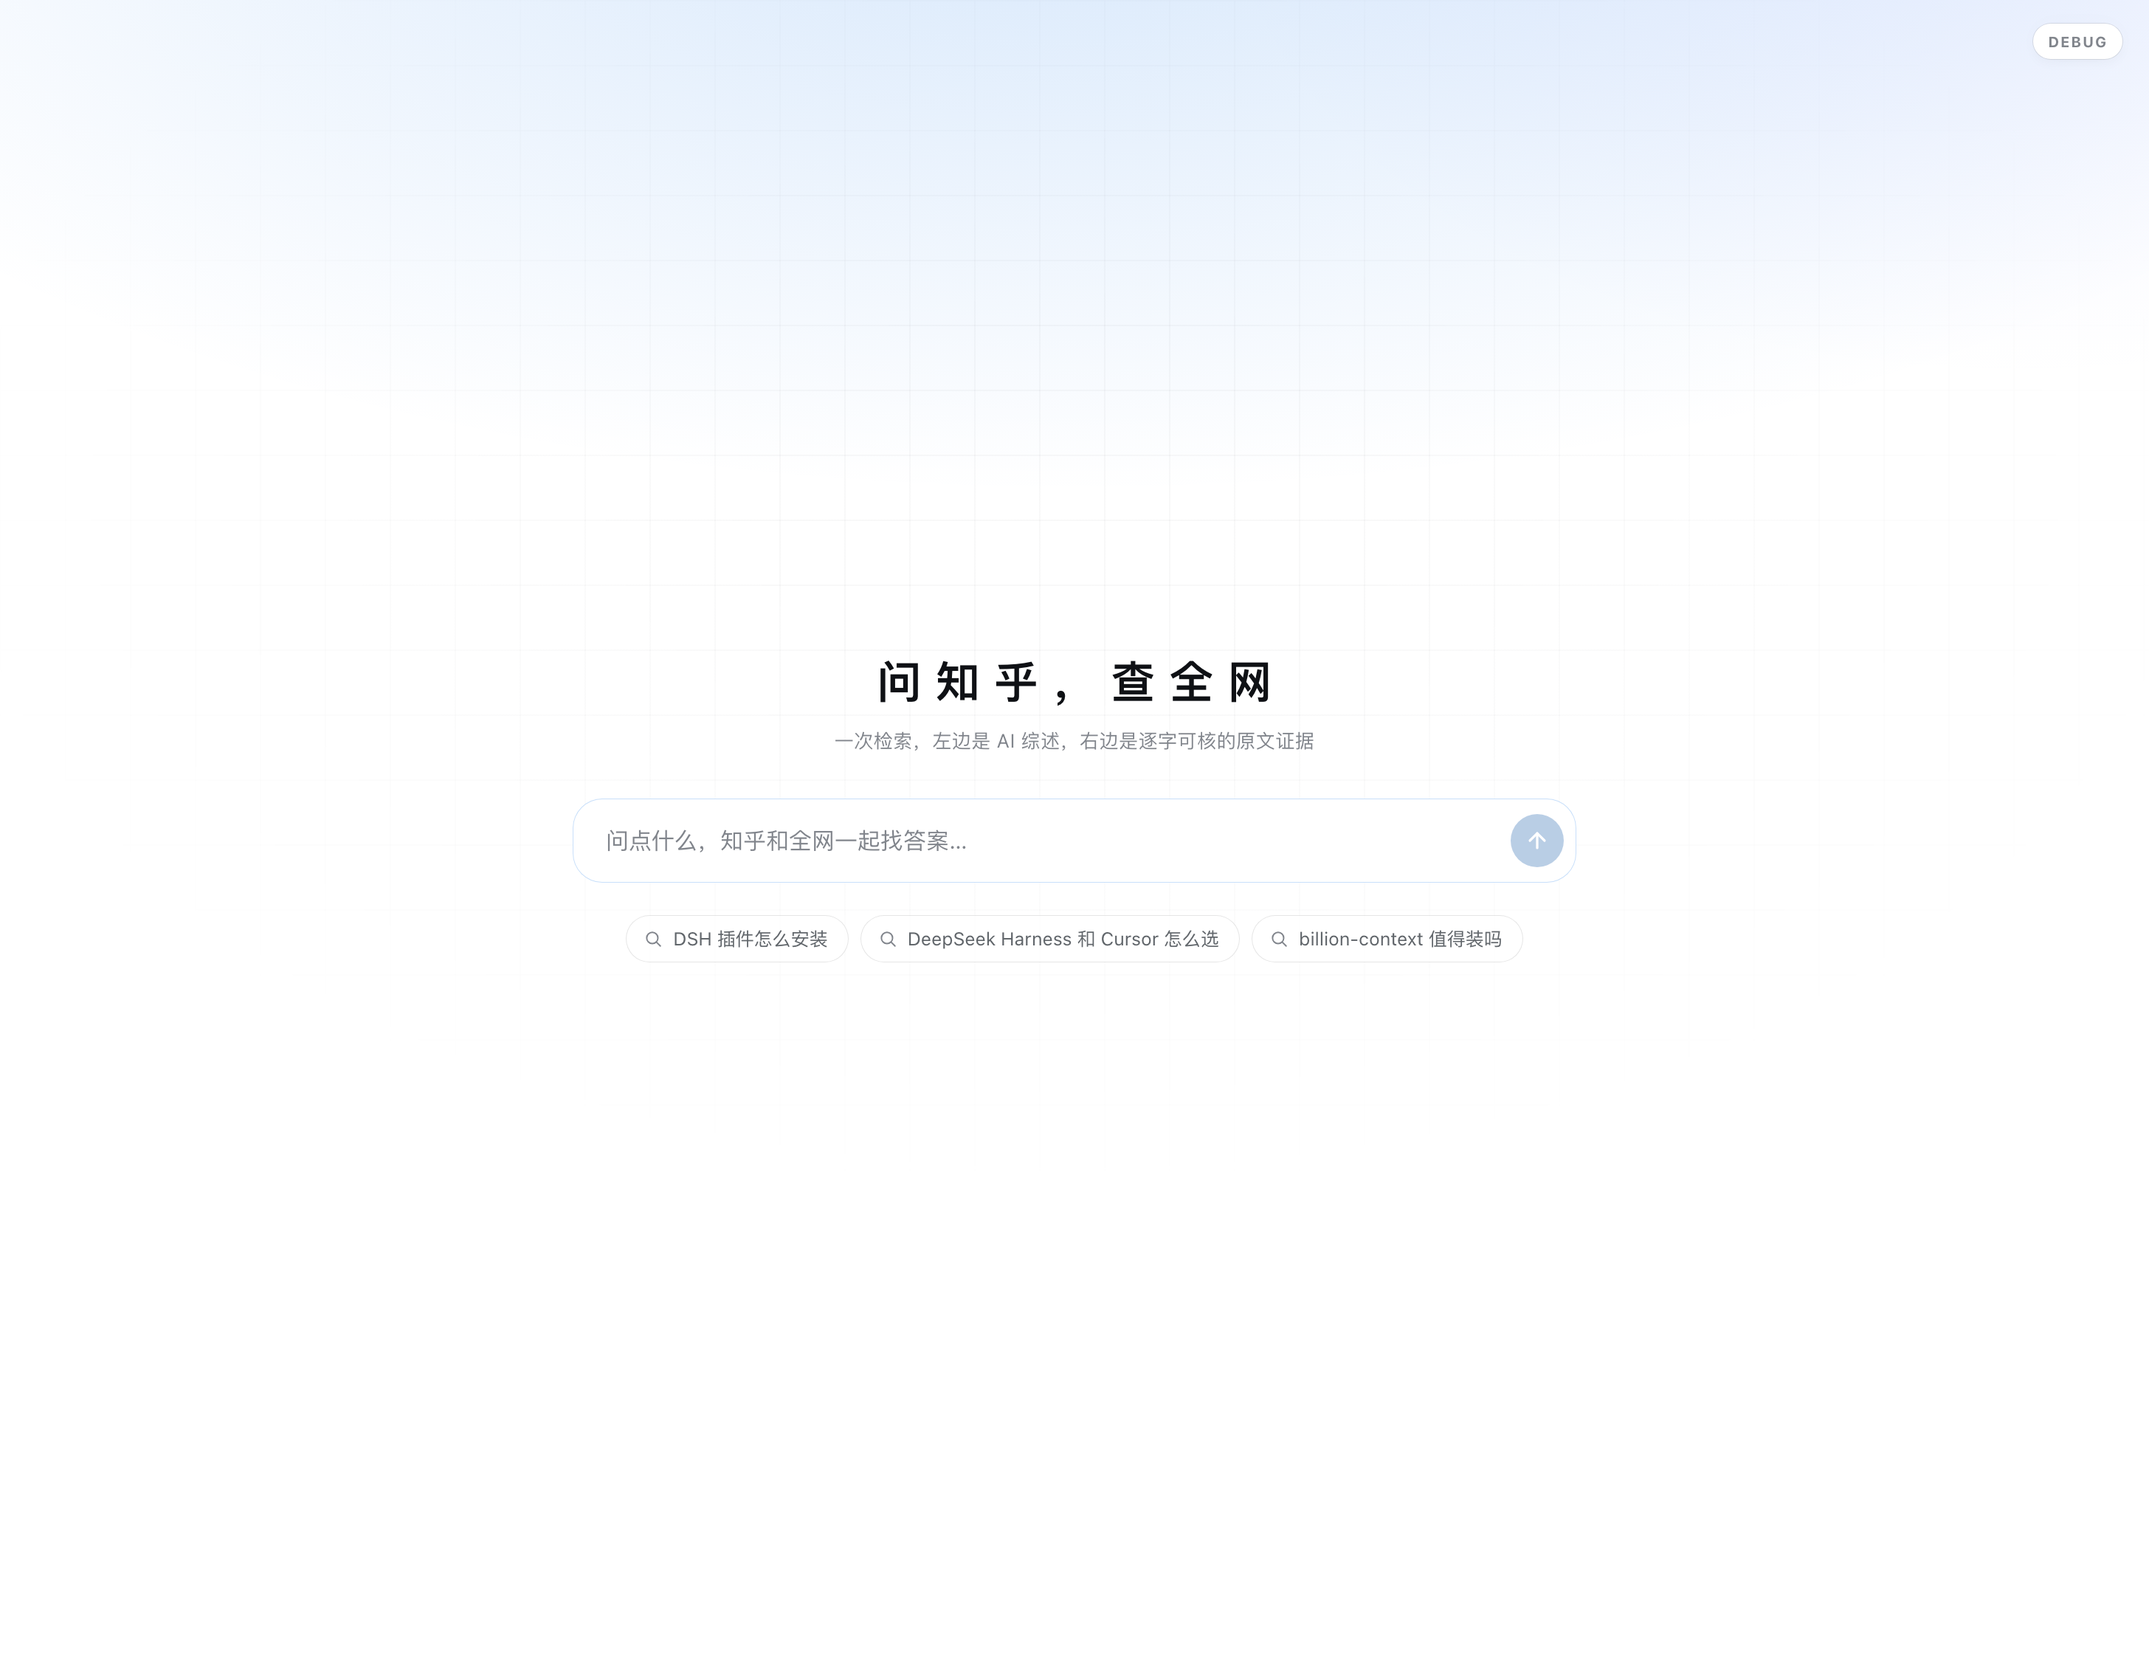
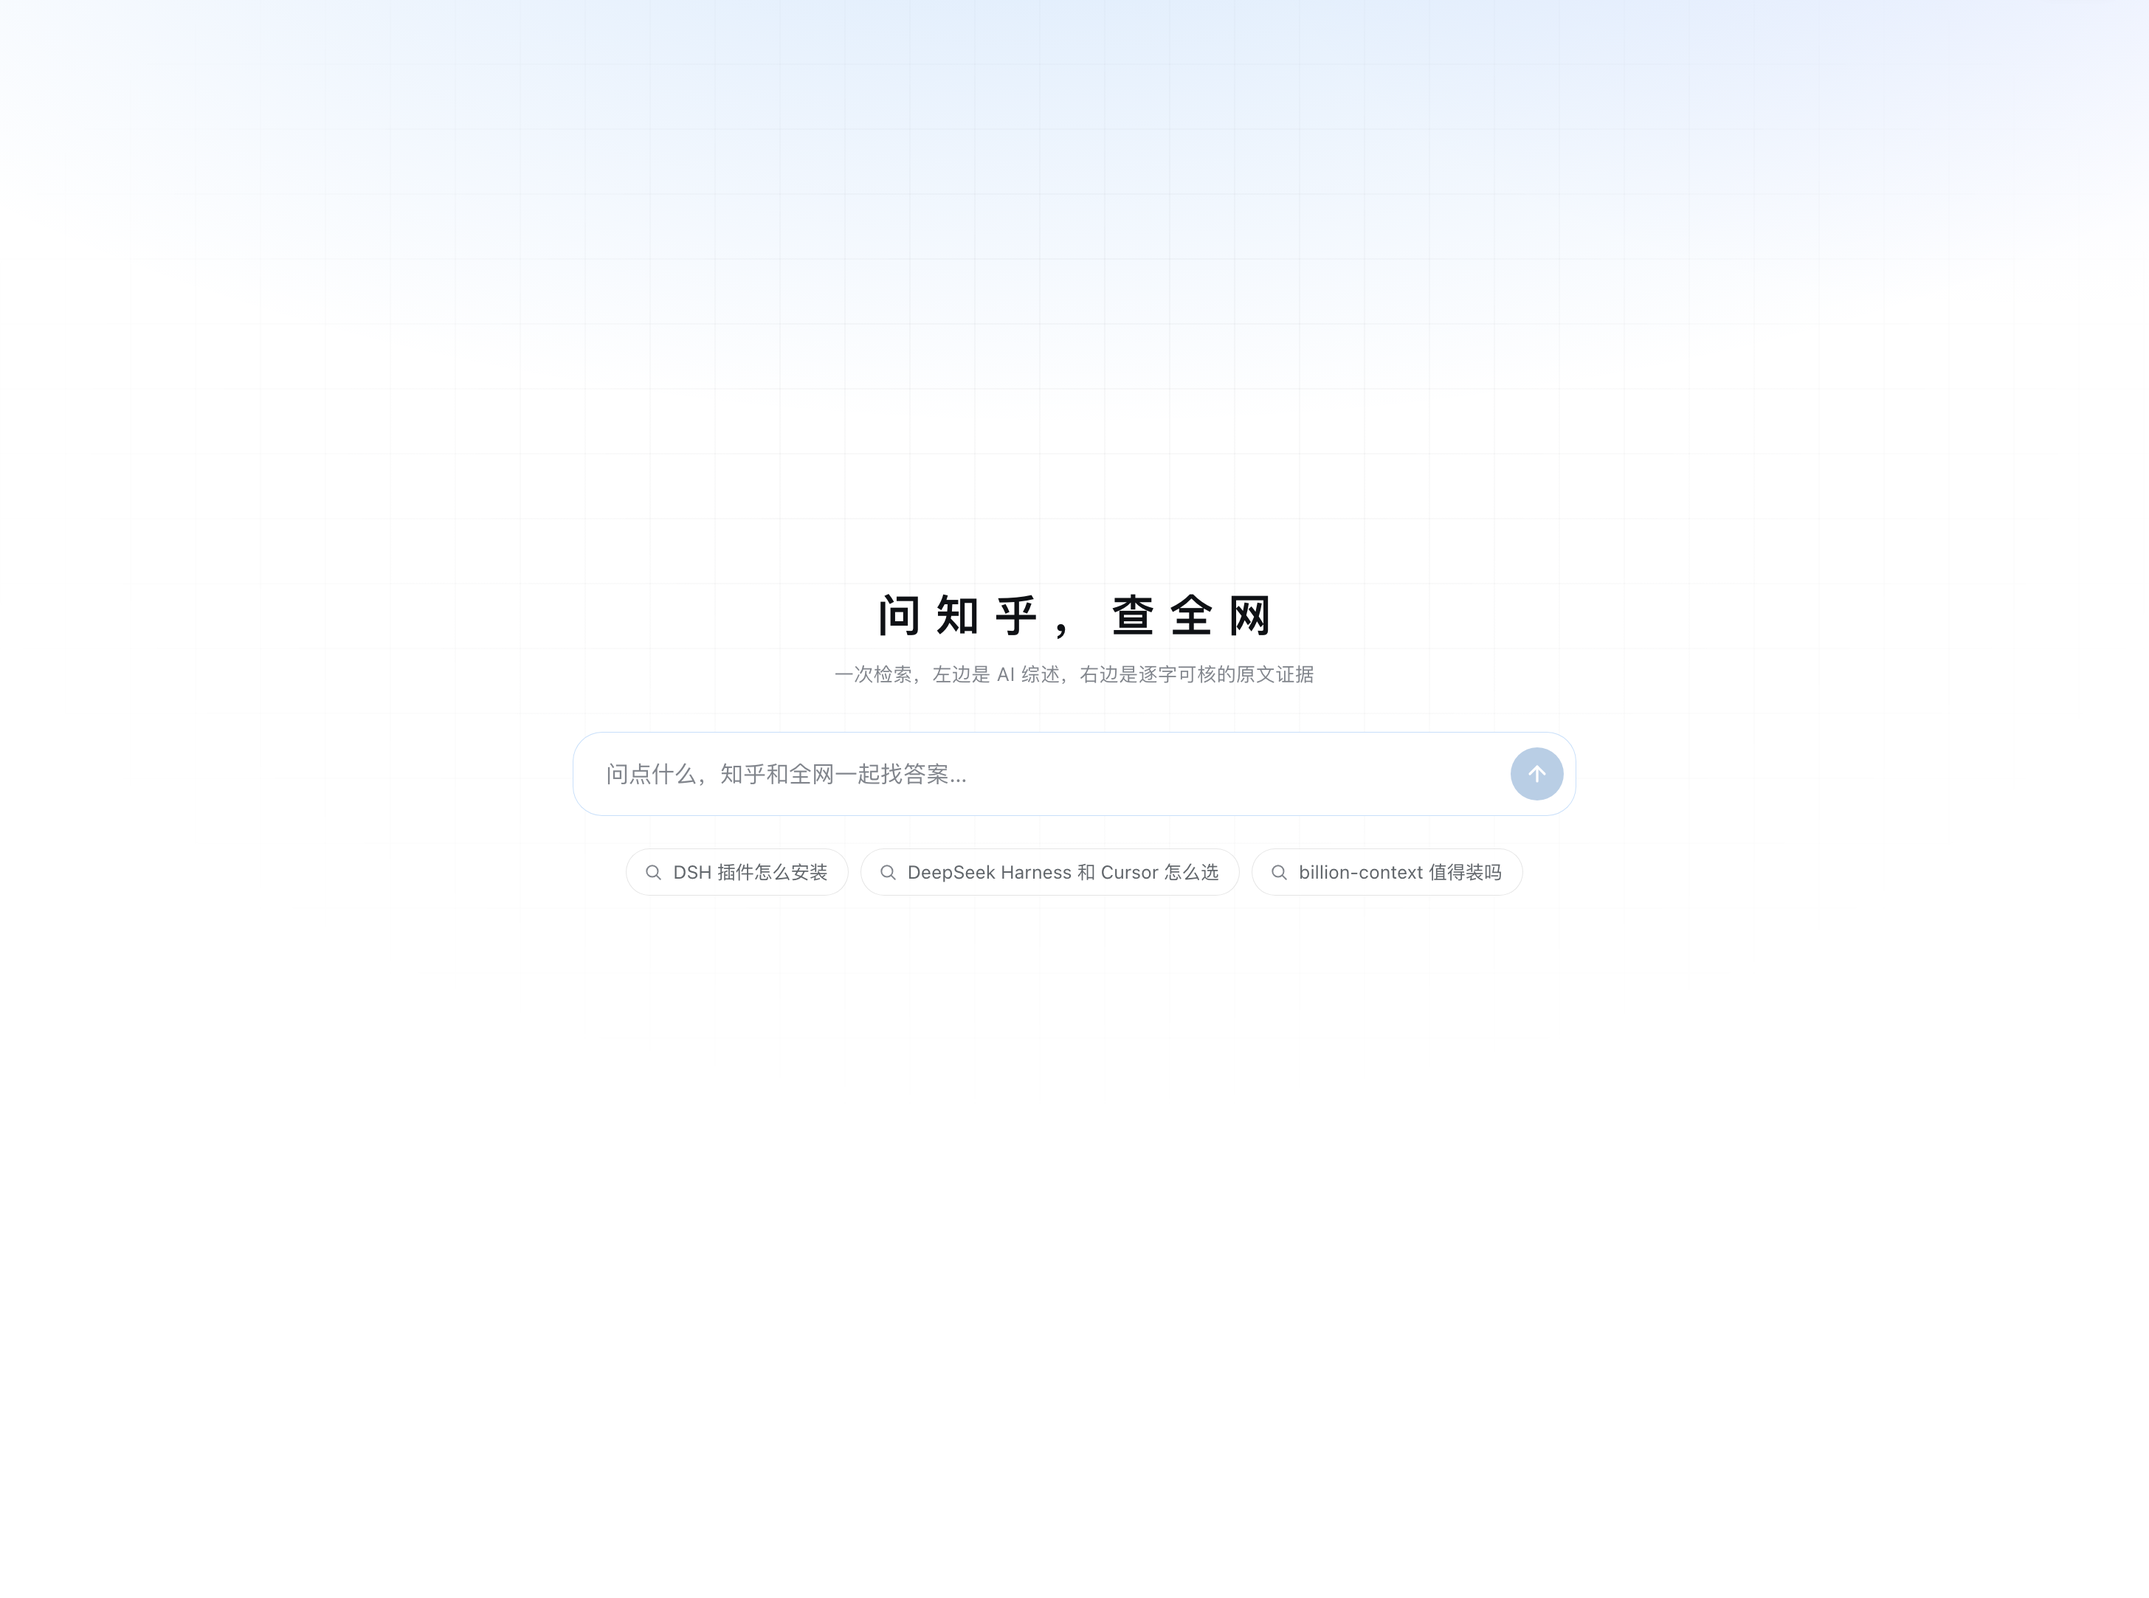
docs: rewrite README as a product introduction

diff --git a/README.md b/README.md
@@ -1,35 +1,90 @@
-# dsh-zsearch
+# ZSearch
 
-> 版本：**0.2.0** · 许可证：Apache-2.0 · 状态：公开发布准备中
+> **在 DeepSeek Harness 里，把「查一下」变成一次有出处的双源检索。**
 >
-> 适用于 DeepSeek Harness **0.2.2-rc.1** 及以上、**0.3.0** 以下。
+> 问一个问题，同时检索**知乎**和**全网**；左边是流式 AI 综述，右边是它引用的逐字原文。结论带 `[1]`、`[2]` 角标，点一下回到出处。
 
-在 DeepSeek Harness 里做一次「知乎 + 全网」的双源检索：左侧是流式 AI 综述，右侧是它引用的逐字原文。回答里的 `[1]`、`[2]` 角标可以点击，直接定位到对应的证据卡。
+**智能搜索插件 · 知乎 + 全网 · 左答右证**
 
-## 功能
+版本 **0.2.0** · Apache-2.0 · 适用于 DSH `>=0.2.2-rc.1 <0.3.0`
+GitHub 已公开，npm 包尚未发布（当前请从源码安装）。
 
-- **双源检索**：同时查询知乎与全网，候选合并、去重、排序后交给模型。
-- **左答右证**：左侧流式回答，右侧按视角分组的引用卡，每张包含 1–2 句原文和来源。
-- **引用核对**：回答引用了、但没有被筛进视角分组的候选，会自动摘句补到「其他参考内容」，保证角标有落点。
-- **Markdown 回答**：支持标题、列表、表格、代码块、引用、链接和图片；原始 HTML 按文本显示。
-- **划词检索**：在对话中选中文本，点击浮层即可带词检索。
-- **状态持久化**：切走或刷新页面后恢复上次的检索词、回答和卡片。
+![ZSearch 首页](https://raw.githubusercontent.com/hAcKlyc/dsh-zsearch/main/docs/home.png)
 
-## 环境要求
+---
 
-- **DeepSeek Harness** `>=0.2.2-rc.1 <0.3.0`（桌面端或 `dsh web` 均可）。
-- **Node.js** `>=24.9.0`（DSH 自身要求）。
-- 本机 **`zhihu-cli`** 与知乎 **Access Secret**：首次使用时插件会检测并引导安装/配置。
-- DSH 中已配置可用的默认模型：回答、筛选和扩词都通过宿主模型完成。
+## 为什么需要它
+
+用 DeepSeek Harness 写代码、做判断、查资料时，最常打断心流的动作是「查一下」：
+
+- 这个新工具/新模型到底靠不靠谱？
+- 这个报错有没有人踩过，最后怎么解决的？
+- 这件事知乎上有没有**最新讨论**，全网有没有官方说法？
+- 这个说法是真是假，原始出处在哪？
+
+以前的做法是：开浏览器 → 搜一遍 → 切到知乎 → 再切回文档 → 自己把结论拼起来。信息是散的，出处也是散的。
+
+**ZSearch 把这次检索留在 DSH 里。** 一次输入，同时拿到「可以读的结论」和「可以核对的原文」。
+
+## 它是什么
+
+一句话：**左边给你答案，右边给你证据。**
+
+- **智能搜索，而不是关键词列表**：先理解问题、扩展检索式，再把候选交给模型归纳成一篇可读的综述。
+- **知乎 + 全网双源**：知乎提供真实经验、最新讨论、踩坑、争议和从业者视角；全网提供官方文档、新闻、博客、issue 和价格页。同一个问题，两种信息放在一起看。
+- **结论可核对**：回答里的每个角标都能点回对应的逐字原文，不是“模型说”。
+- **不离开 DSH**：查完继续写代码、继续对话；选中一段话还能直接划词检索。
+
+### 它不是什么
+
+- 不是通用搜索引擎的替代品：它更适合「需要理解、比较、看社区观点」的问题。
+- 不是知乎客户端：不登录知乎账号、不发布内容、不做个人数据面板。
+- 不是自动事实核查器：它给你线索和出处，最终判断仍由你来做。
+
+## 你会得到什么
+
+| 你会看到 | 它意味着什么 |
+|---|---|
+| **左侧流式回答** | 先给判断和结构，再展开细节；支持 Markdown、表格、代码块、引用和链接 |
+| **右侧引用卡** | 按「视角」分组，每张卡是 1–2 句逐字原文 + 来源；不是二手转述 |
+| **可点击角标** | `[1]`、`[2]` 直接定位到证据卡，回答和原文对得上 |
+| **其他参考内容** | 回答引用了、但没被分组的候选，会自动补到右栏底部，避免角标悬空 |
+| **划词检索** | 在对话里选中一段文字，点浮层直接带词搜索 |
+| **状态恢复** | 切走或刷新后，检索词、回答和卡片还在 |
+
+![ZSearch 结果页](https://raw.githubusercontent.com/hAcKlyc/dsh-zsearch/main/docs/topbar-fixed.png)
+
+## 典型场景
+
+| 场景 | 你会问 | ZSearch 给你 |
+|---|---|---|
+| **技术选型** | 「这个 DSH 插件怎么装？值不值得装？」 | 官方说明 + 知乎真实使用体验 + 踩坑记录 |
+| **新工具/新产品** | 「某某模型和某某工具怎么选？」 | 官方参数、社区评价、实际成本与限制 |
+| **报错与踩坑** | 「这个错误有没有人遇到过？」 | issue、博客、知乎回答里的解决路径 |
+| **热点事件** | 「这件事现在大家怎么看？」 | 全网报道 + 知乎社区的不同立场 |
+| **写作与选题** | 「这个题目知乎上讨论过吗？」 | 已有观点、争议点和可引用的原文 |
+| **事实核对** | 「这个说法出自哪里？」 | 原始链接和逐字片段，方便你自己判断 |
 
 ## 安装
 
-桌面端：打开 **Plugins → Add plugin**，输入 `dsh-zsearch`，或选择本仓库目录进行本地安装。
+当前 npm 包尚未发布，推荐从源码安装。
 
-CLI：
+### 桌面端
+
+1. 克隆仓库：
+
+   ```sh
+   git clone https://github.com/hAcKlyc/dsh-zsearch.git
+   ```
+
+2. 打开 **Plugins → Add plugin**，选择 `dsh-zsearch` 目录。
+3. 安装后重启 DSH（Host 代码在启动时加载）。
+
+### CLI
 
 ```sh
-dsh plugin --profile <profile> add dsh-zsearch
+git clone https://github.com/hAcKlyc/dsh-zsearch.git
+dsh plugin --profile <profile> add ./dsh-zsearch
 ```
 
 安装或更新 Host 代码后需要重启 DSH。卸载：
@@ -38,15 +93,30 @@ dsh plugin --profile <profile> add dsh-zsearch
 dsh plugin --profile <profile> remove dsh-zsearch
 ```
 
-## 首次使用
+> npm 发布后，可以直接用包名安装：
+>
+> ```sh
+> dsh plugin --profile <profile> add dsh-zsearch
+> ```
 
-插件检测 `zhihu-cli` 与 Access Secret，缺失时显示三步引导：
+## 第一次使用
 
-1. 安装知乎 CLI：读取官方 manifest、下载 Skill、校验 SHA-256 后安装；
-2. 配置 Access Secret：提交到 Host，经 `auth set --secret-stdin` 写入系统钥匙串；
-3. 完成：`cli.found && auth.configured` 后打勾。
+ZSearch 需要三样东西：**知乎 CLI、Access Secret、一个可用的 DSH 模型**。
 
-Secret 不会写入仓库或日志；钥匙串不可用时回退到宿主 `credentials`，以进程环境变量传给 CLI。
+插件会检测 `zhihu-cli` 和 Access Secret，缺失时显示三步引导：
+
+1. **安装知乎 CLI**：读取官方 manifest、下载 Skill、校验 SHA-256 后安装；
+2. **配置 Access Secret**：提交到 Host，经 `auth set --secret-stdin` 写入系统钥匙串；
+3. **完成**：`cli.found && auth.configured` 后即可开始检索。
+
+Secret 不会写入仓库、日志或对话记录；钥匙串不可用时回退到宿主 `credentials`，以进程环境变量传给 CLI。
+
+## 环境要求
+
+- **DeepSeek Harness** `>=0.2.2-rc.1 <0.3.0`（桌面端或 `dsh web` 均可）。
+- **Node.js** `>=24.9.0`（DSH 自身要求）。
+- 本机 **`zhihu-cli`** 与知乎 **Access Secret**。
+- DSH 中已配置可用的默认模型：回答、筛选和扩词都通过宿主模型完成。
 
 ## 数据与隐私
 
@@ -56,16 +126,56 @@ Secret 不会写入仓库或日志；钥匙串不可用时回退到宿主 `crede
 - 头像只代理 `zhimg.com` 的 HTTPS 图片，限制 512KB。
 - 面板状态存在当前 Web GUI origin 的 `localStorage`（键 `dsh-zsearch:panel.v1`，schema v2），不包含 Access Secret。
 
-## 兼容与已知限制
+## 兼容性与已知限制
 
 - 兼容 DSH `0.2.2-rc.1` 起；已在 `0.2.2-rc.3` 上验证。DSH 升级可能带来接口变化，升级前请查看 DSH 的升级指南。
-- 回答基于候选原文生成，右栏展示的是筛选摘句，不保证语义上逐字同源；补充区只缓解这一点。
+- 回答基于候选原文生成，右栏展示的是筛选摘句，不保证语义上逐字同源；「其他参考内容」只缓解这一点。
 - 回答输入约 1.3 万字符，成本和延迟高于轻量检索。
 - 缓存命中时「重新检索」仍可能拿到旧缓存（Client 不发送 `refresh=1`）。
 - 同 query 并发不合并；没有分阶段的 token 统计，只有总数与诊断环。
 - 回答被 provider 中断或超时时会显示「回答生成中断」，保留已生成部分，不自动续写。
+- 检索结果取决于 `zhihu-cli` 当时能返回的内容，不保证实时覆盖每一条新讨论。
+
+---
+
+## 它是怎么工作的（技术）
+
+一次典型的冷启动检索：
+
+```text
+问题
+ ├─ 扩词（模型 ①）→ 多个检索式
+ ├─ 本机 zhihu-cli 双源检索 → ≤70 个候选（candidateId）
+ ├─ 分组摘引（模型 ②）→ 主题 + 视角分组 + 逐字摘句
+ └─ 写回答（模型 ③）→ 流式回答，按候选编号引用
+        ↓
+   引用核对 → 缺失补卡（模型 ④，按需）→ citations → done
+```
+
+- 模型 ②（筛选）和模型 ③（回答）**并行**，回答不用等右栏整理完。
+- 回答按候选编号引用，服务端通过 `citations` 事件映射到显示序号。
+- 冷启动通常 3 次模型调用；出现缺失引用时 +1 次补卡。10 分钟缓存命中时只重跑回答。
+- Host 通过 SSE 把 `plan`、`card`、`answer`、`topic`、`citations`、`done` 等事件推给页面。
+- 不依赖构建步骤、不引入运行时 npm 依赖；使用 Node 内置模块和 DSH 宿主服务。
+
+### Host 接口
+
+| 路由 | 用途 |
+|---|---|
+| `GET /zsearch/api/stream?q=` | SSE 检索与回答 |
+| `GET /zsearch/api/setup/status` | CLI / Secret / Skill 状态 |
+| `GET /zsearch/api/setup/install` | 安装知乎 CLI 和 Skill |
+| `POST /zsearch/api/setup/secret` | 写入 Access Secret |
+| `GET /zsearch/api/diagnostics` | 最近 20 次检索的 finish / usage / 耗时 |
+| `GET /zsearch/api/health` | 健康检查 |
 
 ## 开发
+
+```sh
+npm run verify
+```
+
+等价于：
 
 ```sh
 node --check index.js
@@ -73,16 +183,13 @@ node --check client.js
 node test/integration.mjs
 node test/client-smoke.mjs
 node test/client-render.mjs
-
-# 或一次跑完
-npm run verify
 ```
 
 - Host 代码（`index.js`）在 DSH 启动时加载，改完必须重启；只改 `client.js` 刷新页面即可。
 - 测试使用假 CLI / 假模型，不消耗真实额度；真实模型质量需要单独评估。
 - `GET /zsearch/api/diagnostics` 可查看最近 20 次检索的 finish / usage / 耗时（不包含回答正文）。
 
-## 目录
+### 目录
 
 ```text
 index.js            Host 半：检索、模型调用、SSE、安装引导

diff --git a/docs/DETAIL.md b/docs/DETAIL.md
@@ -1,6 +1,6 @@
 # dsh-zsearch
 
-在 DeepSeek Harness 中同时检索知乎与全网：左侧是流式 AI 综述，右侧是可逐字核对的引用来源。回答里的 `[1]`、`[2]` 角标可以点击，直接定位到证据卡。
+ZSearch 是 DeepSeek Harness 里的智能搜索插件：在 DSH 中同时检索知乎与全网，左侧是流式 AI 综述，右侧是可逐字核对的引用来源。回答里的 `[1]`、`[2]` 角标可以点击，直接定位到证据卡。
 
 ## 功能
 
@@ -13,12 +13,14 @@
 
 ## 安装
 
-桌面端：**Plugins → Add plugin**，输入 `dsh-zsearch`，或选择本地目录。安装/更新 Host 代码后重启 DSH。
+当前 npm 包尚未发布，推荐从源码目录安装。
+
+桌面端：**Plugins → Add plugin**，选择 `dsh-zsearch` 目录。安装/更新 Host 代码后重启 DSH。
 
 CLI：
 
 ```sh
-dsh plugin --profile <profile> add dsh-zsearch
+dsh plugin --profile <profile> add ./dsh-zsearch
 ```
 
 ## 环境要求

diff --git a/docs/design.md b/docs/design.md
@@ -91,9 +91,9 @@
 
 ### 首页静态预览
 
-用 0.2.0 的真实 CSS 与结构渲染，1456×1128：
+用 0.2.0 的真实 CSS 与结构渲染：
 
-![首页静态预览（1456×1128，用真实 CSS/结构生成）](home.png)
+![首页静态预览（用真实 CSS/结构生成）](home.png)
 
 ## 7. 动效
 
